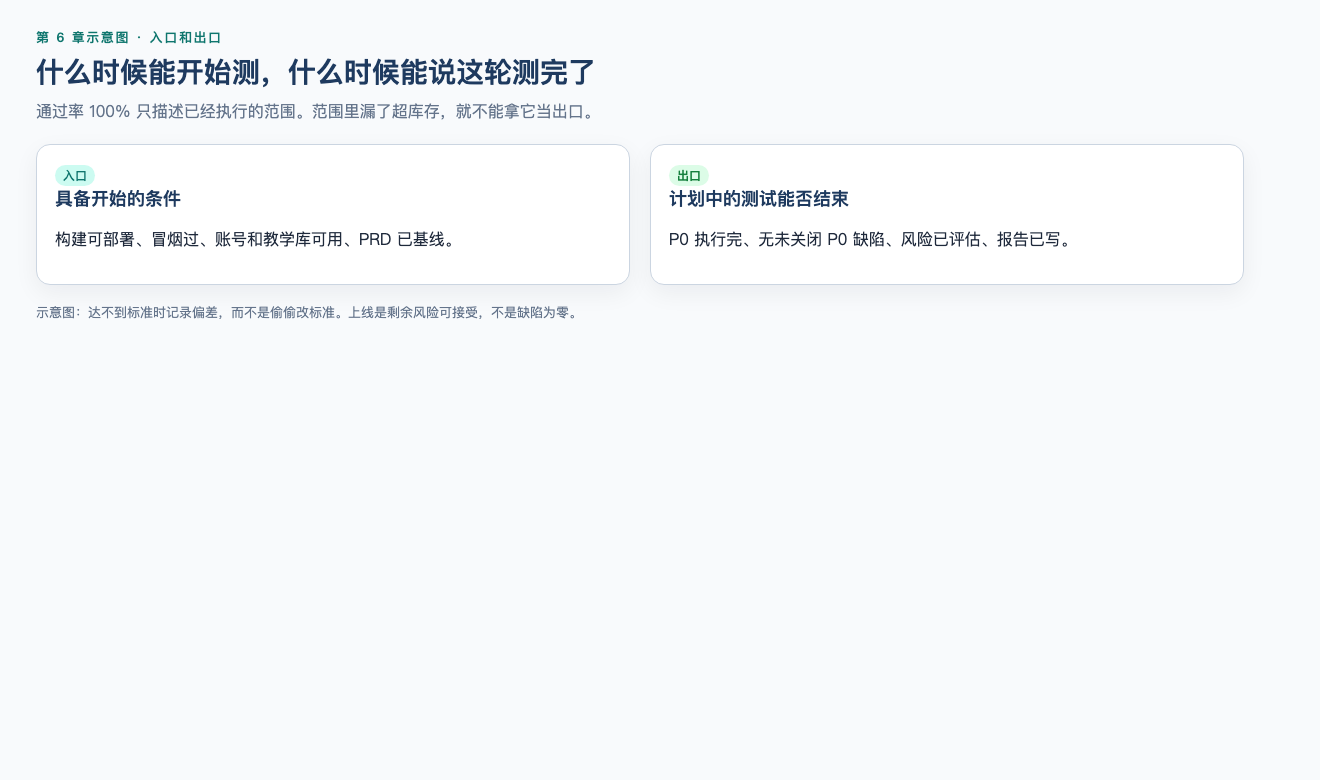
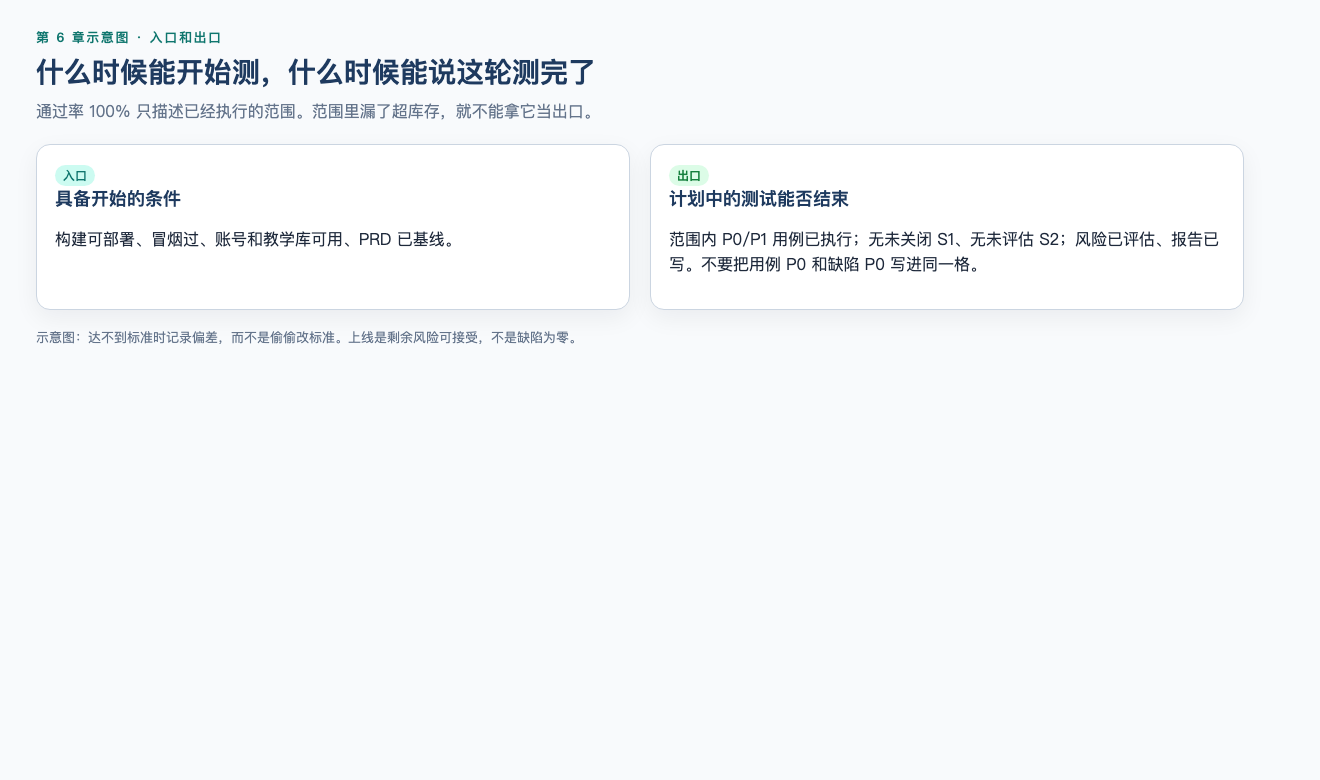
fix(ch06): confirm BUG-001, not qty=11, and add optional Jira
Exercise 10 confirmation/regression follows empty search. Exit criteria
keep course case priority plus S1/S2. Optional cloud ticket for BUG-001.

Changed region(s): [[0.0311, 0.3692, 0.4348, 0.4615], [0.497, 0.2769, 0.9318, 0.3692]]

diff --git a/chapters/assets/diagrams/ch06-entry-exit.html b/chapters/assets/diagrams/ch06-entry-exit.html
@@ -4,6 +4,6 @@
 <p class="kicker">第 6 章示意图 · 入口和出口</p>
 <h1>什么时候能开始测，什么时候能说这轮测完了</h1>
 <p class="lead">通过率 100% 只描述已经执行的范围。范围里漏了超库存，就不能拿它当出口。</p>
-<div class="row"><div class="col card"><span class="tag tag-info">入口</span><h2>具备开始的条件</h2><p style="font-size:16px;line-height:1.55">构建可部署、冒烟过、账号和教学库可用、PRD 已基线。</p></div><div class="col card"><span class="tag tag-ok">出口</span><h2>计划中的测试能否结束</h2><p style="font-size:16px;line-height:1.55">P0 执行完、无未关闭 P0 缺陷、风险已评估、报告已写。</p></div></div>
+<div class="row"><div class="col card"><span class="tag tag-info">入口</span><h2>具备开始的条件</h2><p style="font-size:16px;line-height:1.55">构建可部署、冒烟过、账号和教学库可用、PRD 已基线。</p></div><div class="col card"><span class="tag tag-ok">出口</span><h2>计划中的测试能否结束</h2><p style="font-size:16px;line-height:1.55">范围内 P0/P1 用例已执行；无未关闭 S1、无未评估 S2；风险已评估、报告已写。不要把用例 P0 和缺陷 P0 写进同一格。</p></div></div>
 <p class="caption">示意图：达不到标准时记录偏差，而不是偷偷改标准。上线是剩余风险可接受，不是缺陷为零。</p>
 </div></body></html>

diff --git a/chapters/06b-test-management.md b/chapters/06b-test-management.md
@@ -105,7 +105,7 @@
 - 冒烟范围已定义；
 - 已知阻塞问题已同步。
 
-**出口标准**帮助判断计划中的测试能否结束。例如：
+**出口标准**帮助判断计划中的测试能否结束。这里的 P0/P1 是课程**用例**优先级，S1/S2 是课程**严重程度**示例，都不是全球统一标准；不要把「P0 缺陷」和「P0 用例」写进同一句。例如：
 
 - 范围内 P0/P1 用例已执行，未执行项有原因；
 - 无未关闭的 S1，无未评估的 S2；
@@ -237,7 +237,7 @@ exercises/chapter-06-minishop-test-plan.md
 - 策略：
 - 环境与数据：
 - 入口标准：
-- 出口标准：
+- 出口标准：（范围内课程用例 P0/P1 已执行；无未关闭 S1、无未评估 S2。不要写「P0 缺陷」）
 - 产品风险：
 - 项目风险：
 - 交付物：
@@ -323,7 +323,7 @@ MiniShop 购物车本轮测试通过率 100%，但范围内没有包含“数量
 
 9. 不能。通过率只描述已执行范围内的结果。已确认的超库存规则未被纳入范围，属于范围遗漏和剩余产品风险，出口标准不能只看 100%。
 
-10. 缺陷单本身已在 6-1 交付。确认测试：在修复后的同一类构建上重放原步骤，库存 10 时 11 应被拒绝。回归测试：至少覆盖加购、修改为合法数量、修改为库存值；失败后原值是否保持以 PRD 为准，未写则待确认。v1.0 没有小计和结算，不要把它们写进 MiniShop 回归范围。
+10. 对象是 6-1 / BUG-001（空搜索，R-SEARCH），不是 qty=11。确认测试：在修复后的同一构建上重放空关键字或仅空白关键字（接口 `GET /api/products?keyword=` 与若干空格，以及页面搜索框提交空格），按 R-SEARCH 不得把全量商品当成搜索结果（具体是 400 还是空列表+提示，以当时已确认规则为准）。回归测试：有关键字搜索仍能命中、登录仍可用、qty=10 仍允许、创建订单仍返回 id（无 status）。按修改点和风险抽测。qty=11 是另一条已实现规则（R-CART-10），不是本单确认步骤。BUG-001 在修复前不得写成已关闭。
 
 ---
 

diff --git a/chapters/06-bug-and-test-management.md b/chapters/06-bug-and-test-management.md
@@ -7,7 +7,7 @@
 1. [06A 缺陷管理](06a-bug-management.md)（生命周期、等级、报告、无法复现/争议/偶现）
 2. [06B 测试计划与测试管理](06b-test-management.md)（范围、策略、入口/出口、风险、环境）
 
-作业：06A [缺陷报告](06a-bug-management.md#minishop-工作实战缺陷报告) · [实操 6-1](../practice/06-bug-report/)；06B [一页计划](06b-test-management.md#minishop-工作实战一页测试计划)（不再交第二份完整缺陷单，引用 6-1）
+作业：06A [缺陷报告](06a-bug-management.md#minishop-工作实战缺陷报告) · [实操 6-1](../practice/06-bug-report/)（同一套验收：空搜索 BUG-001，产出 `exercises/chapter-06-bug-001.md`）；06B [一页计划](06b-test-management.md#minishop-工作实战一页测试计划)（不再交第二份完整缺陷单，登记表引用 6-1 一行即可）
 
 阶段测验：[阶段测验 2](quizzes/stage-2-analysis.md)
 
